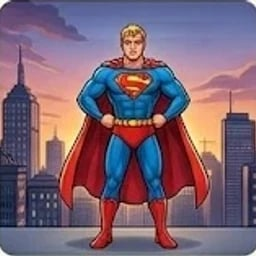
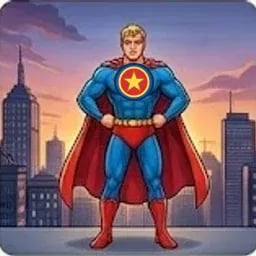
Superhéroe sin la S de Superman, licencia sin número fijo de dispositivos y versión 1.9.0
- La ilustración de Superhéroes lleva una estrella en el pecho en vez del
  emblema de Superman.
- Los avisos de licencia no dan por hecho que una clave vale para dos
  dispositivos (los packs permiten más), como pide docs/WEB.md.
- Comentario de licenseCore.cjs al día: sin límite de tiempo sin conexión.

Claude-Session: https://claude.ai/code/session_01Kog91Wec1QGumYKtnWyNwE

Changed region(s): [[0.4375, 0.2188, 0.625, 0.4062]]

diff --git a/src/i18n/ca.ts b/src/i18n/ca.ts
@@ -1627,7 +1627,7 @@ export const CA: Record<string, string> = {
   "Castellano, catalán o inglés internacional.": "Castellà, català o anglès internacional.",
   // Llicència
   "Esa clave no existe. Cópiala tal cual del correo que recibiste al comprar.": "Aquesta clau no existeix. Copia-la tal com apareix al correu que vas rebre en comprar.",
-  "Esta clave ya está activada en dos dispositivos. Desactívala en uno de ellos (Configuración › Licencia) y vuelve a probar.": "Aquesta clau ja està activada en dos dispositius. Desactiva-la en un d'ells (Configuració › Llicència) i torna-ho a provar.",
+  "Esta clave ya está activada en todos los dispositivos que permite. Desactívala en uno de ellos (Configuración › Licencia) y vuelve a probar.": "Aquesta clau ja està activada en tots els dispositius que permet. Desactiva-la en un d'ells (Configuració › Llicència) i torna-ho a provar.",
   "Esta clave está desactivada. Revisa el correo de la compra o escríbenos.": "Aquesta clau està desactivada. Revisa el correu de la compra o escriu-nos.",
   "Esa clave no es de Aula Pro.": "Aquesta clau no és d'Aula Pro.",
   "Para activar hace falta internet (solo esta vez). Conéctate y vuelve a probar.": "Per activar cal internet (només aquesta vegada). Connecta't i torna-ho a provar.",
@@ -1649,7 +1649,7 @@ export const CA: Record<string, string> = {
   "En este equipo desde el {d}": "En aquest equip des del {d}",
   "Licencia activa": "Llicència activa",
   "activada el {d}": "activada el {d}",
-  "Tu clave sirve para dos dispositivos a la vez. Si cambias de dispositivo, desactívala aquí antes y actívala en el nuevo con la misma clave.": "La teva clau serveix per a dos dispositius alhora. Si canvies de dispositiu, desactiva-la aquí abans i activa-la al nou amb la mateixa clau.",
+  "Si cambias de dispositivo, desactiva la licencia aquí antes y actívala en el nuevo con la misma clave: así no gastas una activación.": "Si canvies de dispositiu, desactiva la llicència aquí abans i activa-la al nou amb la mateixa clau: així no gastes cap activació.",
   "Aula Pro pedirá la clave la próxima vez que se abra en este equipo. Tus datos no se borran.": "Aula Pro demanarà la clau la pròxima vegada que s'obri en aquest equip. Les teves dades no s'esborren.",
   "Sí, desactivar": "Sí, desactiva",
   "Desactivar en este equipo": "Desactiva en aquest equip",

diff --git a/src/i18n/core.ts b/src/i18n/core.ts
@@ -1838,7 +1838,7 @@ const EN: Record<string, string> = {
 
   /* ── Licencia ── */
   "Esa clave no existe. Cópiala tal cual del correo que recibiste al comprar.": "That key doesn't exist. Copy it exactly as it appears in your purchase email.",
-  "Esta clave ya está activada en dos dispositivos. Desactívala en uno de ellos (Configuración › Licencia) y vuelve a probar.": "This key is already activated on two devices. Deactivate it on one of them (Settings › Licence) and try again.",
+  "Esta clave ya está activada en todos los dispositivos que permite. Desactívala en uno de ellos (Configuración › Licencia) y vuelve a probar.": "This key is already activated on all the devices it allows. Deactivate it on one of them (Settings › Licence) and try again.",
   "Esta clave está desactivada. Revisa el correo de la compra o escríbenos.": "This key has been deactivated. Check your purchase email or get in touch.",
   "Esa clave no es de Aula Pro.": "That key isn't for Aula Pro.",
   "Para activar hace falta internet (solo esta vez). Conéctate y vuelve a probar.": "Activation needs an internet connection (just this once). Connect and try again.",
@@ -1860,7 +1860,7 @@ const EN: Record<string, string> = {
   "En este equipo desde el {d}": "On this computer since {d}",
   "Licencia activa": "Licence active",
   "activada el {d}": "activated on {d}",
-  "Tu clave sirve para dos dispositivos a la vez. Si cambias de dispositivo, desactívala aquí antes y actívala en el nuevo con la misma clave.": "Your key works on two devices at a time. If you change device, deactivate it here first and then activate it on the new one with the same key.",
+  "Si cambias de dispositivo, desactiva la licencia aquí antes y actívala en el nuevo con la misma clave: así no gastas una activación.": "If you change device, deactivate the licence here first and then activate it on the new one with the same key, so you don't use up an activation.",
   "Aula Pro pedirá la clave la próxima vez que se abra en este equipo. Tus datos no se borran.": "Aula Pro will ask for the key the next time it opens on this computer. Your data is not deleted.",
   "Sí, desactivar": "Yes, deactivate",
   "Desactivar en este equipo": "Deactivate on this computer",

diff --git a/src/services/license.ts b/src/services/license.ts
@@ -18,7 +18,7 @@ export async function getLicenseState(): Promise<LicenseState | null> {
 /** Qué decirle al docente cuando la activación no sale. */
 export const LICENSE_ERROR_TEXT: Record<LicenseError, string> = {
   'clave-no-valida': 'Esa clave no existe. Cópiala tal cual del correo que recibiste al comprar.',
-  'limite': 'Esta clave ya está activada en dos dispositivos. Desactívala en uno de ellos (Configuración › Licencia) y vuelve a probar.',
+  'limite': 'Esta clave ya está activada en todos los dispositivos que permite. Desactívala en uno de ellos (Configuración › Licencia) y vuelve a probar.',
   'desactivada': 'Esta clave está desactivada. Revisa el correo de la compra o escríbenos.',
   'otra-tienda': 'Esa clave no es de Aula Pro.',
   'sin-conexion': 'Para activar hace falta internet (solo esta vez). Conéctate y vuelve a probar.',

diff --git a/src/components/LicenseSettings.tsx b/src/components/LicenseSettings.tsx
@@ -45,7 +45,7 @@ export function LicenseSettings({ state, onChange }: { state: LicenseState; onCh
         {since && <span className="lic-card-meta">· {t('activada el {d}', { d: since })}</span>}
       </div>
       <p className="lic-card-txt">
-        {t('Tu clave sirve para dos dispositivos a la vez. Si cambias de dispositivo, desactívala aquí antes y actívala en el nuevo con la misma clave.')}
+        {t('Si cambias de dispositivo, desactiva la licencia aquí antes y actívala en el nuevo con la misma clave: así no gastas una activación.')}
       </p>
       {confirm ? (
         <div className="lic-confirm">

diff --git a/docs/WEB.md b/docs/WEB.md
@@ -29,7 +29,7 @@ Contexto compartido entre la app y la web. Actualizado el 1 de octubre de 2026.
 Estas frases están publicadas en las condiciones de venta y en la política de privacidad. Si la app hace algo distinto, cambia la web en el mismo cambio.
 
 1. Pantalla de licencia en Windows, Mac y Android, donde se introduce la clave recibida por correo.
-2. Activación con la API de licencias de Lemon Squeezy (activar y validar). El límite lo pone Lemon Squeezy en cada clave: 2 en la licencia individual, 10, 20, 40 o 60 en los packs. La app no debe suponer que son 2: los textos "Tu clave sirve para dos dispositivos a la vez" (LicenseSettings) y "Esta clave ya está activada en dos dispositivos" (error `limite`) deben decir el número real (`license_key.activation_limit` de la respuesta) o no dar número.
+2. Activación con la API de licencias de Lemon Squeezy (activar y validar). El límite lo pone Lemon Squeezy en cada clave: 2 en la licencia individual, 10, 20, 40 o 60 en los packs. La app no supone que son 2: desde la 1.9.0 sus textos no dan número ("Esta clave ya está activada en todos los dispositivos que permite").
 3. Al activar, la app envía a Lemon Squeezy solo la clave y un identificador del dispositivo. Nunca datos del alumnado. El nombre del dispositivo es neutro ("Aula Pro · Windows", "· Mac" o "· Android"), nunca el nombre del equipo. (App 1.8.0.)
 4. Hace falta internet solo para activar la primera vez. Después funciona sin conexión, salvo las funciones de IA. Cuando hay conexión, la app comprueba la clave en segundo plano una vez por semana (así una devolución desactiva la licencia), pero sin conexión nunca se bloquea. (App 1.8.0; la privacidad y las condiciones lo dicen así: «sin límite de tiempo».)
    - Estado en la 1.8.0: escritorio (`electron/license.cjs`) y Android (`src/platform/androidLicense.ts`) hechos, con `ENFORCED = false` (aún no se pide clave; quien abre la app queda como fundador), `STORE_ID = '487841'` (desde el 2-10-2026) y `FOUNDER_CUTOFF` sin fecha. `BUY_URL` en escritorio: https://aulapro.app. `STORE_ID` es el número de la tienda de Lemon Squeezy, para que no valgan claves de otras tiendas; va igual en los dos archivos.

diff --git a/docs/releases/v1.9.0.md b/docs/releases/v1.9.0.md
@@ -1,0 +1,14 @@
+## Novedades
+
+**Fichas con ilustraciones**
+
+- **Cada tema tiene su ilustración.** Misión espacial, Selva, Detectives, Aventura submarina, Superhéroes, La gran final, Jurásico, Piratas, Magia, Cocina y Clásica se ven con un dibujo propio en lugar del emoji: al elegir el tema, en «Mis fichas», en el editor y en Aula Live.
+- **También en lo que imprimes.** La cabecera de la ficha en PDF y en Word y el cartel de la situación de aprendizaje llevan la ilustración del tema.
+- **Licencia:** los avisos ya no dan por hecho que una clave vale para dos dispositivos, porque los packs de centro permiten más.
+
+## Descargas
+- **AulaPro-1.9.0-instalador-windows.exe**: instalación normal, con acceso directo y actualizaciones automáticas.
+- **AulaPro-1.9.0-portable-windows.exe**: se ejecuta sin instalar.
+- **AulaPro-1.9.0-mac.dmg**: para Mac (Intel y Apple Silicon). En Mac las actualizaciones son manuales.
+- **AulaPro-1.9.0-android.apk**: para móvil y tableta Android (versión de prueba).
+- **AulaPro-1.9.0-microsoft-store.appx**: paquete para subir a Microsoft Store (no se instala directamente).
